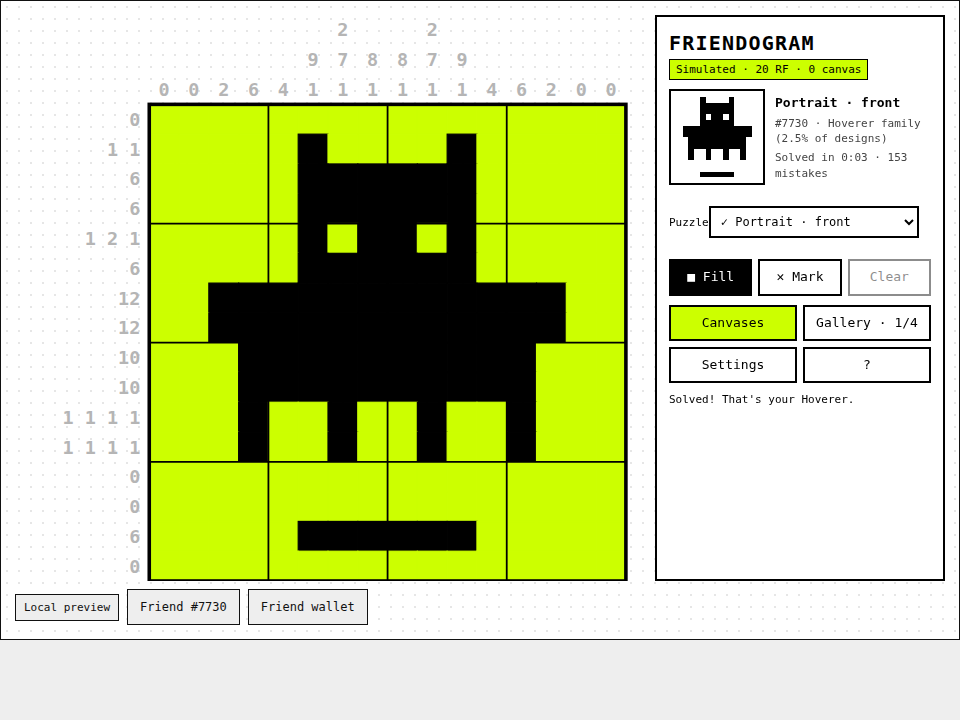
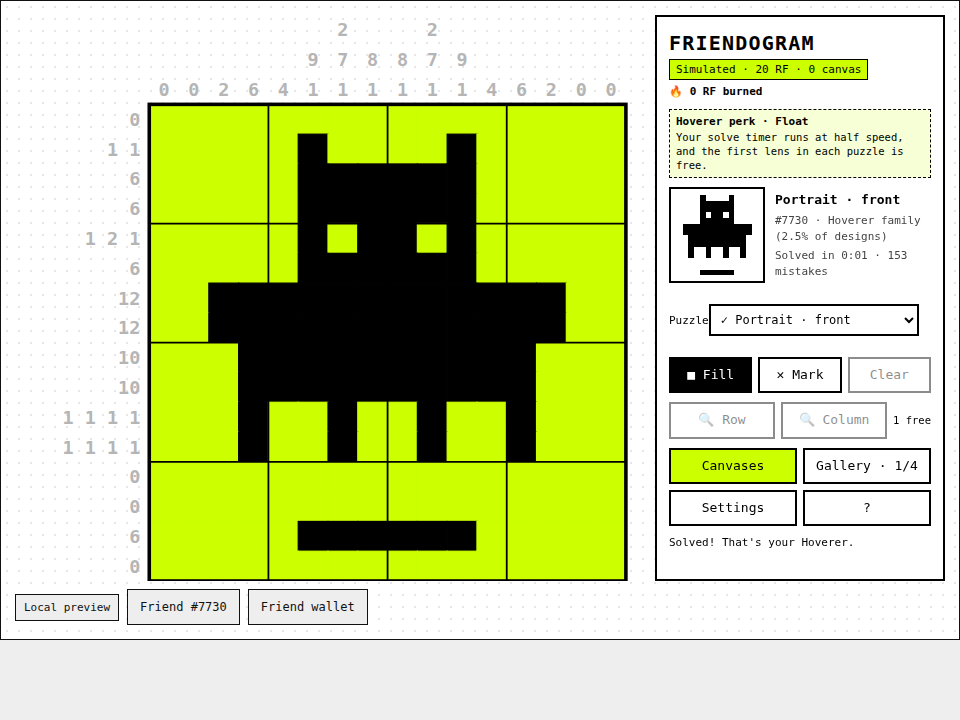
Add perks, lenses, Friend of the Day

Changed region(s): [[0.6875, 0.1222, 0.9688, 0.7639]]

diff --git a/game/index.tsx b/game/index.tsx
@@ -4,19 +4,21 @@ import { useCallback, useEffect, useMemo, useRef, useState, type KeyboardEvent, 
 import type { GameComponentProps } from "@rarefriends/friendsdk/runtime";
 import { GameMenu } from "@rarefriends/friendsdk/frame";
 import { formatGameAmount } from "@rarefriends/friendsdk/ui";
-import { expectedReward, maximumPrize, type GameSnapshot } from "@rarefriends/friendsdk/game";
+import { expectedReward, maximumPrize, RF as RF_UNIT, type GameSnapshot } from "@rarefriends/friendsdk/game";
 import { createFriendReader, spriteFrame, type GenerationSprites, type SpriteFacing } from "@rarefriends/friendsdk/sprites";
 import { createFriendSoundKit, type FriendSoundKit, type FriendSoundCue } from "@rarefriends/friendsdk/sounds";
 import { SIZE, clues, emptyGrid, isSolved, lineSatisfied, pictureRows, type Cell, type Picture } from "./nonogram";
 import { RELICS } from "./relics";
+import { perkFor, PERKS, type Perk } from "./perks";
+import { dailyFor } from "./daily";
 import "@rarefriends/friendsdk/frame.css";
 import "./style.css";
 
 type Puzzle = Readonly<{
-  id: string; kind: "portrait" | "canvas"; title: string; picture: Picture;
+  id: string; kind: "portrait" | "canvas" | "daily"; title: string; picture: Picture; tokenId?: bigint; family?: string;
   facing?: SpriteFacing; walking?: boolean; playId?: bigint; outcomeId?: number;
 }>;
-type Progress = { grid: Cell[]; mistakes: number; seconds: number; solved: boolean; revealed: boolean };
+type Progress = { grid: Cell[]; mistakes: number; seconds: number; solved: boolean; revealed: boolean; lenses: number; freeLeft: number; forgiven: number };
 type Menu = "help" | "shop" | "gallery" | "settings" | "reward" | null;
 type Tool = "fill" | "mark";
 
@@ -33,6 +35,24 @@ const FAMILY_SHARE: Record<string, string> = {
   Skeleton: "18%", Mask: "18%", Family: "18%", Cellular: "18%", Asymmetry: "18%",
   Hoverer: "2.5%", Colossus: "2.5%", Sparkling: "2.5%", Hollow: "2.5%",
 };
+const LENS_PRICE = RF_UNIT / 10n; // 0.1 RF per lens, 100% burned (simulated)
+const DAILY = dailyFor();
+
+/** A fresh board with the family perk's head start applied. */
+function newProgress(picture: Picture, perk: Perk): Progress {
+  const solution = pictureRows(picture), grid = emptyGrid();
+  const put = (x: number, y: number) => { grid[y * SIZE + x] = solution[y][x] ? 1 : 2; };
+  for (const reveal of perk.reveal) {
+    if (reveal === "row0") for (let x = 0; x < SIZE; x++) put(x, 0);
+    if (reveal === "col0") for (let y = 0; y < SIZE; y++) put(0, y);
+    if (reveal === "empty-lines") for (let i = 0; i < SIZE; i++) {
+      if (!solution[i].some(Boolean)) for (let x = 0; x < SIZE; x++) put(x, i);
+      if (!solution.some(row => row[i])) for (let y = 0; y < SIZE; y++) put(i, y);
+    }
+  }
+  return { grid, mistakes: 0, seconds: 0, solved: false, revealed: false, lenses: 0, freeLeft: perk.freeLenses, forgiven: 0 };
+}
+
 const revealCue = (outcomeId: number): FriendSoundCue => outcomeId >= 5 ? "reveal-legendary" : outcomeId >= 4 ? "reveal-rare" : "reveal-common";
 
 function portraitPuzzles(sprites: GenerationSprites): Puzzle[] {
@@ -60,6 +80,10 @@ export default function Friendogram({ friendId, client, paused }: GameComponentP
   const [menu, setMenu] = useState<Menu>("help"), [rewardId, setRewardId] = useState("");
   const [busy, setBusy] = useState(false), [error, setError] = useState(""), [message, setMessage] = useState("");
   const [muted, setMuted] = useState(true), [reducedMotion, setReducedMotion] = useState(false);
+  const [burned, setBurned] = useState(0n), [bank, setBank] = useState(0);
+  const perk = perkFor(sprites?.familyName ?? "");
+  const perkRef = useRef(perk); perkRef.current = perk;
+  const slowTick = useRef(false);
   const sound = useRef<FriendSoundKit | null>(null), locked = useRef(false), epoch = useRef(0);
   const drag = useRef<{ value: Cell; pointer: number } | null>(null);
   const preview = useRef<HTMLCanvasElement>(null), board = useRef<SVGSVGElement>(null);
@@ -69,13 +93,17 @@ export default function Friendogram({ friendId, client, paused }: GameComponentP
     const version = ++epoch.current;
     sound.current = createFriendSoundKit({ muted: true });
     setSprites(null); setSnapshot(null); setLoadError(""); setPuzzles([]); setProgress({}); setActiveId("");
-    setMenu("help"); setBusy(false); setError(""); setMessage(""); setMuted(true); locked.current = false;
+    setMenu("help"); setBusy(false); setError(""); setMessage(""); setMuted(true); setBurned(0n); setBank(0); locked.current = false;
     void Promise.all([createFriendReader().read(friendId), client.read()]).then(([art, value]) => {
       if (version !== epoch.current) return;
       if (value.friendId !== friendId) throw new Error("This game session does not match the selected Friend.");
       const list = portraitPuzzles(art);
-      setSprites(art); setSnapshot(value); setPuzzles(list); setActiveId(list[0]?.id ?? "");
-      setProgress(Object.fromEntries(list.map(p => [p.id, { grid: emptyGrid(), mistakes: 0, seconds: 0, solved: false, revealed: false }])));
+      setSprites(art); setSnapshot(value); setActiveId(list[0]?.id ?? "");
+      const familyPerk = perkFor(art.familyName);
+      // Friend of the Day: embedded canonical artwork, identical for every player today.
+      const daily: Puzzle = { id: "daily", kind: "daily", title: `Friend of the Day #${DAILY.number}`, picture: DAILY.picture, tokenId: DAILY.tokenId, family: DAILY.family };
+      setPuzzles([...list, daily]);
+      setProgress(Object.fromEntries([...list, daily].map(p => [p.id, newProgress(p.picture, familyPerk)])));
     }).catch(cause => { if (version === epoch.current) setLoadError(cause instanceof Error ? cause.message : "Could not load your Friend."); });
     return () => { epoch.current++; sound.current?.dispose(); sound.current = null; };
   }, [client, friendId, revision]);
@@ -97,6 +125,7 @@ export default function Friendogram({ friendId, client, paused }: GameComponentP
     const timer = window.setInterval(() => {
       if (document.hidden || paused) return;
       if (menu !== null || !active) return;
+      if (perkRef.current.slowTimer) { slowTick.current = !slowTick.current; if (slowTick.current) return; }
       setProgress(all => {
         const current = all[active.id];
         return current && !current.solved ? { ...all, [active.id]: { ...current, seconds: current.seconds + 1 } } : all;
@@ -112,10 +141,12 @@ export default function Friendogram({ friendId, client, paused }: GameComponentP
   }, [reducedMotion, paused]);
 
   const solve = useCallback((puzzle: Puzzle, revealed: boolean) => {
+    if (!revealed && perkRef.current.bankOnSolve) setBank(b => b + perkRef.current.bankOnSolve);
     setProgress(all => ({ ...all, [puzzle.id]: { ...all[puzzle.id], solved: true, revealed, grid: pictureRows(puzzle.picture).flat().map(on => (on ? 1 : 2) as Cell) } }));
     if (puzzle.kind === "canvas" && puzzle.outcomeId) {
       sound.current?.play(revealCue(puzzle.outcomeId)); setMessage(""); setError(""); setRewardId(puzzle.id); setMenu("reward");
-    } else { sound.current?.play("reveal-rare"); setMessage(`Solved! That's ${sprites ? `your ${sprites.familyName}` : "your Friend"}.`); }
+    } else if (puzzle.kind === "daily") { sound.current?.play("reveal-legendary"); setMessage(`Friend of the Day solved! #${puzzle.tokenId} is a ${puzzle.family}. Result card in Gallery.`); }
+    else { sound.current?.play("reveal-rare"); setMessage(`Solved! That's ${sprites ? `your ${sprites.familyName}` : "your Friend"}.`); }
   }, [sprites]);
 
   const progressRef = useRef(progress); progressRef.current = progress;
@@ -127,13 +158,39 @@ export default function Friendogram({ friendId, client, paused }: GameComponentP
     let next: Cell = value, mistake = false;
     if (assist && value === 1 && !solution[index]) { next = 2; mistake = true; }
     const grid = state.grid.slice(); grid[index] = next;
-    const updated = { ...state, grid, mistakes: state.mistakes + (mistake ? 1 : 0) };
+    const forgiven = mistake && state.forgiven < perkRef.current.forgive;
+    const updated = { ...state, grid, mistakes: state.mistakes + (mistake && !forgiven ? 1 : 0), forgiven: state.forgiven + (forgiven ? 1 : 0) };
     progressRef.current = { ...progressRef.current, [active.id]: updated };
     setProgress(all => ({ ...all, [active.id]: { ...updated, seconds: all[active.id]?.seconds ?? updated.seconds } }));
     if (mistake) { setFlash(index); window.setTimeout(() => setFlash(f => (f === index ? -1 : f)), 450); sound.current?.play("impact"); }
     else if (value === 1) sound.current?.play("select");
     if (!mistake && isSolved(grid, active.picture)) solve(active, false);
   }, [active, blocked, assist, solution, solve]);
+
+  /** Lens: reveal the cursor's row or column. Free lenses are used first, then banked ones, then RF (burned). */
+  const lensCost = (LENS_PRICE * BigInt(perk.lensCostPct)) / 100n;
+  const applyLens = (axis: "row" | "col") => {
+    const state = active ? progressRef.current[active.id] : undefined;
+    if (!active || !state || state.solved || paused || busy || !snapshot) return;
+    const x = cursor % SIZE, y = Math.floor(cursor / SIZE), rows = pictureRows(active.picture);
+    const cells: [number, number][] = Array.from({ length: SIZE }, (_, i) => (axis === "row" ? [i, y] : [x, i]));
+    if (cells.every(([cx, cy]) => state.grid[cy * SIZE + cx] === (rows[cy][cx] ? 1 : 2))) { setMessage(`That ${axis === "row" ? "row" : "column"} is already solved. Move the cursor to another line.`); return; }
+    let paid: "free" | "bank" | "rf" = "free";
+    if (state.freeLeft > 0) paid = "free";
+    else if (bank > 0) paid = "bank";
+    else if (snapshot.rfBalance - burned >= lensCost) paid = "rf";
+    else { setError("Not enough RF for a lens."); return; }
+    const grid = state.grid.slice();
+    for (const [cx, cy] of cells) grid[cy * SIZE + cx] = rows[cy][cx] ? 1 : 2;
+    const updated = { ...state, grid, lenses: state.lenses + 1, freeLeft: state.freeLeft - (paid === "free" ? 1 : 0) };
+    progressRef.current = { ...progressRef.current, [active.id]: updated };
+    setProgress(all => ({ ...all, [active.id]: { ...updated, seconds: all[active.id]?.seconds ?? updated.seconds } }));
+    if (paid === "bank") setBank(b => b - 1);
+    if (paid === "rf") setBurned(b => b + lensCost);
+    setError(""); setMessage(paid === "rf" ? `Lens used: ${rf(lensCost)} burned (simulated).` : paid === "bank" ? "Lens used from your Kinship bank." : `Free ${perk.name} lens used.`);
+    sound.current?.play("action-ready");
+    if (isSolved(grid, active.picture)) solve(active, false);
+  };
 
   // Pointer painting: the first cell decides fill/erase or mark/unmark for the whole drag.
   const cellAt = (event: PointerEvent<SVGSVGElement>) => {
@@ -177,6 +234,8 @@ export default function Friendogram({ friendId, client, paused }: GameComponentP
     else if (key === "f" || key === "z") { event.preventDefault(); setCell(cursor, current === 1 ? 0 : 1); }
     else if (key === "x") { event.preventDefault(); setCell(cursor, current === 2 ? 0 : 2); }
     else if (key === "t") { event.preventDefault(); setTool(t => (t === "fill" ? "mark" : "fill")); }
+    else if (key === "l") { event.preventDefault(); applyLens("row"); }
+    else if (key === "k") { event.preventDefault(); applyLens("col"); }
   };
 
   // Friend preview: live sprite animation once a portrait is solved, otherwise the player's progress.
@@ -204,7 +263,7 @@ export default function Friendogram({ friendId, client, paused }: GameComponentP
     const id = `canvas-${playId}`;
     const puzzle: Puzzle = { id, kind: "canvas", title: `Mystery Canvas #${playId}`, picture: RELICS[outcomeId - 1].picture, playId, outcomeId };
     setPuzzles(list => (list.some(p => p.id === id) ? list : [...list, puzzle]));
-    setProgress(all => (all[id] ? all : { ...all, [id]: { grid: emptyGrid(), mistakes: 0, seconds: 0, solved: false, revealed: false } }));
+    setProgress(all => (all[id] ? all : { ...all, [id]: newProgress(puzzle.picture, perkRef.current) }));
     setActiveId(id); setMenu(null);
   };
   const paintCanvas = () => act(async () => {
@@ -223,7 +282,8 @@ export default function Friendogram({ friendId, client, paused }: GameComponentP
   if (!snapshot || !sprites || !active || !state || !clue) return <div className="fg-loading" role="status"><div className="fg-spinner" aria-hidden="true" />Reading your Friend's pixels from the chain…</div>;
 
   const price = definition.price, maxPrize = maximumPrize(definition);
-  const canBuy = snapshot.rfBalance >= price && snapshot.freeStake >= maxPrize && snapshot.freeStake + price >= maxPrize;
+  const spendable = snapshot.rfBalance - burned;
+  const canBuy = spendable >= price && snapshot.freeStake >= maxPrize && snapshot.freeStake + price >= maxPrize;
   const pending = snapshot.plays.find(play => play.outcomeId === null);
   const modeLabel = snapshot.mode === "preview" ? "Simulated" : "Live";
   const portraits = puzzles.filter(p => p.kind === "portrait");
@@ -260,24 +320,31 @@ export default function Friendogram({ friendId, client, paused }: GameComponentP
         </svg>
       </div>
       <aside className="fg-side">
-        <header><h1>Friendogram</h1><p className="fg-balance">{modeLabel} · {rf(snapshot.rfBalance)} · {snapshot.consumables.toString()} canvas</p></header>
+        <header><h1>Friendogram</h1><p className="fg-balance">{modeLabel} · {rf(spendable)} · {snapshot.consumables.toString()} canvas</p>
+          <p className="fg-burn" aria-label={`${rf(burned)} burned on lenses`}>🔥 {rf(burned)} burned</p></header>
+        <p className="fg-perk" title={perk.text}><strong>{perk.family} perk · {perk.name}</strong> {perk.text}</p>
         <div className="fg-card">
           <canvas ref={preview} width={96} height={96} aria-label={state.solved ? `${active.title} solved` : "Your progress"} />
           <div>
             <strong>{hiddenName ? `${active.title} · sealed` : active.title}</strong>
-            <small>{active.kind === "portrait" ? `#${friendId} · ${sprites.familyName} family (${FAMILY_SHARE[sprites.familyName]} of designs)` : state.solved && active.outcomeId ? `${definition.outcomes[active.outcomeId - 1].name} · ${RELICS[active.outcomeId - 1].rarity}` : "Prize fixed at opening. Solve to reveal it."}</small>
+            <small>{active.kind === "daily" ? `${DAILY.key} · #${active.tokenId} · ${state.solved ? `${active.family} family` : "who is it?"}` : active.kind === "portrait" ? `#${friendId} · ${sprites.familyName} family (${FAMILY_SHARE[sprites.familyName]} of designs)` : state.solved && active.outcomeId ? `${definition.outcomes[active.outcomeId - 1].name} · ${RELICS[active.outcomeId - 1].rarity}` : "Prize fixed at opening. Solve to reveal it."}</small>
             <small>{state.solved ? (state.revealed ? "Revealed" : `Solved in ${clock(state.seconds)} · ${state.mistakes} mistake${state.mistakes === 1 ? "" : "s"}`) : `${clock(state.seconds)} · ${state.mistakes} mistake${state.mistakes === 1 ? "" : "s"}`}</small>
           </div>
         </div>
         <label className="fg-select">Puzzle
           <select value={active.id} onChange={event => { setActiveId(event.target.value); setCursor(0); setMessage(""); }}>
-            {puzzles.map(p => <option key={p.id} value={p.id}>{progress[p.id]?.solved ? "✓ " : ""}{p.kind === "canvas" && !progress[p.id]?.solved ? `${p.title} · sealed` : p.title}</option>)}
+            {puzzles.map(p => <option key={p.id} value={p.id}>{progress[p.id]?.solved ? "✓ " : ""}{p.kind === "canvas" && !progress[p.id]?.solved ? `${p.title} · sealed` : p.kind === "daily" ? `☀ ${p.title}` : p.title}</option>)}
           </select>
         </label>
         <div className="fg-tools" role="group" aria-label="Tool">
           <button type="button" aria-pressed={tool === "fill"} onClick={() => setTool("fill")}>■ Fill</button>
           <button type="button" aria-pressed={tool === "mark"} onClick={() => setTool("mark")}>✕ Mark</button>
           <button type="button" disabled={state.solved} onClick={() => setProgress(all => ({ ...all, [active.id]: { ...state, grid: emptyGrid() } }))}>Clear</button>
+        </div>
+        <div className="fg-tools" role="group" aria-label="Lenses">
+          <button type="button" disabled={state.solved} onClick={() => applyLens("row")} title="Reveal the cursor's row (L)">🔍 Row</button>
+          <button type="button" disabled={state.solved} onClick={() => applyLens("col")} title="Reveal the cursor's column (K)">🔍 Column</button>
+          <span className="fg-lens-note">{state.freeLeft > 0 ? `${state.freeLeft} free` : bank > 0 ? `${bank} banked` : rf(lensCost)}</span>
         </div>
         {active.kind === "canvas" && !state.solved && <button type="button" className="fg-wide" onClick={() => solve(active, true)}>Reveal now (skip puzzle)</button>}
         <div className="fg-actions">
@@ -297,18 +364,21 @@ export default function Friendogram({ friendId, client, paused }: GameComponentP
         <p>Every puzzle here is drawn from <strong>#{friendId.toString()}</strong>'s own 16 × 16 on-chain sprite. Solve it and your Friend walks off the board.</p>
         <p>Numbers are runs of filled squares in that row or column, in order, with at least one gap between runs. Fill squares, mark ones you know are empty, and grey clues mean a line is done.</p>
         <p><strong>Controls:</strong> tap or drag to paint · right-click or ✕ Mark to mark · keyboard: arrows/WASD move, Space fills with the current tool, F fills, X marks, T switches tool.</p>
+        <p><strong>Your family perk:</strong> #{friendId.toString()} is a {perk.family} ({perk.share} of designs), so you get <strong>{perk.name}</strong>: {perk.text} Rarer families get stronger perks.</p>
+        <p><strong>Lenses</strong> reveal the row or column under the cursor (buttons, or L / K). Free and banked lenses are used first. After that each lens costs {rf(lensCost)}, and <strong>100% of it is burned</strong> (simulated).</p>
+        <p><strong>☀ Friend of the Day #{DAILY.number}:</strong> every player gets the same Rare Friend today. Solve it to find out who it is.</p>
         <p><strong>Mystery Canvas</strong> ({rf(price)}, simulated): its relic is fixed when you open it. Solve the picture to reveal it, then keep it or sell it back for its fixed RF value.</p>
       </> : menu === "shop" ? <>
         <div className="fg-row">
           <button type="button" disabled={!canBuy || busy || paused} onClick={() => void act(() => client.buy(1n), "purchase")}>Buy 1 · {rf(price)}</button>
-          <button type="button" disabled={!canBuy || busy || paused || snapshot.rfBalance < price * 3n} onClick={() => void act(() => client.buy(3n), "purchase")}>Buy 3 · {rf(price * 3n)}</button>
+          <button type="button" disabled={!canBuy || busy || paused || spendable < price * 3n} onClick={() => void act(() => client.buy(3n), "purchase")}>Buy 3 · {rf(price * 3n)}</button>
           <button type="button" className="rf-frame-primary" disabled={busy || paused || (!pending && snapshot.consumables === 0n)} onClick={() => void paintCanvas()}>{pending ? "Resume canvas" : `Open a canvas (${snapshot.consumables.toString()})`}</button>
         </div>
         <p>One canvas costs <strong>{rf(price)}</strong> and holds one relic. The prize is fixed when you open it; solving only reveals it. {snapshot.mode === "preview" && "All RF here is simulated."}</p>
         <table><thead><tr><th>Relic</th><th>Chance</th><th>Value</th></tr></thead>
           <tbody>{definition.outcomes.map((o, i) => <tr key={o.name}><td>{o.name} <small>{RELICS[i].rarity}</small></td><td>{o.chanceBps / 100}%</td><td>{rf(o.reward)}</td></tr>)}</tbody></table>
         <p className="fg-note">Expected value {rf(expectedReward(definition))} per canvas · max {rf(maxPrize)}. In live play, half of each payment is burned and half funds Friend rewards, as with other Rare Friends gameplay.</p>
-        {!canBuy && <p>{snapshot.rfBalance < price ? "Not enough RF." : "New canvases are paused until there's enough free backing."}</p>}
+        {!canBuy && <p>{spendable < price ? "Not enough RF." : "New canvases are paused until there's enough free backing."}</p>}
         {feedback && <p role={error ? "alert" : "status"}>{feedback}</p>}
       </> : menu === "reward" && reward && rewardOutcome && reward.outcomeId ? <div className="fg-reward">
         <canvas width={96} height={96} ref={node => {
@@ -328,9 +398,18 @@ export default function Friendogram({ friendId, client, paused }: GameComponentP
       </div> : menu === "gallery" ? <>
         <h3>#{friendId.toString()} · {sprites.familyName}</h3>
         <ul className="fg-list">{portraits.map(p => { const s = progress[p.id]; return <li key={p.id}><span>{s?.solved ? "✓" : "·"} {p.title}</span><small>{s?.solved ? `${clock(s.seconds)} · ${s.mistakes} mistakes` : "unsolved"}</small></li>; })}</ul>
+        {(() => { const d = puzzles.find(p => p.kind === "daily"), s = d && progress[d.id]; return <>
+          <h3>☀ Friend of the Day #{DAILY.number} · {DAILY.key}</h3>
+          {d && s?.solved ? <pre className="fg-share">{`Friendogram ☀ #${DAILY.number}\nFriend #${d.tokenId} (${d.family})\n${s.revealed ? "revealed" : `solved in ${clock(s.seconds)}`} · ${s.mistakes} mistakes · ${s.lenses} lenses`}</pre>
+            : <p>Not solved yet. Pick ☀ Friend of the Day in the puzzle list.</p>}
+        </>; })()}
+        <h3>Burn · {rf(burned)}</h3>
+        <p className="fg-note">{Object.values(progress).reduce((n, s) => n + s.lenses, 0)} lenses used this session{bank ? ` · ${bank} banked` : ""}. Lens burns are simulated and tracked by the game.</p>
         <h3>Relics · {heldCount.toString()} held</h3>
         <ul className="fg-list">{definition.outcomes.map((o, i) => <li key={o.name}><span><strong>{o.name}</strong> <small>{snapshot.inventory[i].toString()} held · {rf(o.reward)}</small></span>
           <button type="button" disabled={busy || paused || snapshot.inventory[i] === 0n || o.reward === 0n} onClick={() => void act(() => client.redeem(i + 1, 1n), "reward")}>Sell one</button></li>)}</ul>
+        <h3>Family perks</h3>
+        <ul className="fg-list">{Object.values(PERKS).map(p => <li key={p.family} className={p.family === perk.family ? "fg-mine" : undefined}><span><strong>{p.family}</strong> <small>{p.share}</small></span><small>{p.name}: {p.text}</small></li>)}</ul>
         {feedback && <p role={error ? "alert" : "status"}>{feedback}</p>}
       </> : menu === "settings" ? <>
         <button type="button" aria-pressed={!muted} onClick={() => { const next = !muted; setMuted(next); sound.current?.setMuted(next); if (!next) void sound.current?.unlock(); }}>{muted ? "Sound off" : "Sound on"}</button>

diff --git a/game/daily.ts b/game/daily.ts
@@ -1,0 +1,37 @@
+import { decodeSpriteBitmap } from "@rarefriends/friendsdk/sprites";
+import type { Picture } from "./nonogram";
+
+/**
+ * Friend of the Day: 18 hand-picked hardwired Generations Friends (two per family). Their canonical
+ * front-facing idle frame (Colossus: side frame) was read once from the on-chain families registry
+ * (frames(family, seed), 2026-09-27) and is embedded here, so the game never reads other token IDs
+ * at runtime and never scans the collection. Everyone gets the same Friend on the same UTC day.
+ */
+export const DAILY_FRIENDS: readonly { tokenId: bigint; family: string; bitmap: bigint }[] = [
+  { tokenId: 334803n, family: "Skeleton", bitmap: 0x0000066006600ff00ff003c003c00ff019981ff807e006600420000000000000n },
+  { tokenId: 334809n, family: "Mask", bitmap: 0x000006600660066007e00e700ff00ff00ff007e0018007e00e700db007e00000n },
+  { tokenId: 334830n, family: "Family", bitmap: 0x00000e700e7007e00ff00ff007e006600ff00ff01db807e00660066006600000n },
+  { tokenId: 334821n, family: "Cellular", bitmap: 0x00000660066007e00ff00ff007e00180018007e005a005a007e005a004200000n },
+  { tokenId: 334812n, family: "Asymmetry", bitmap: 0x00001818181818181ff81ff81c381c381ff80ff80db00db007e0000000000000n },
+  { tokenId: 334890n, family: "Hoverer", bitmap: 0x00000ff0000000000240024007e007e003c003c01ff817e81ff8181810080000n },
+  { tokenId: 334294n, family: "Colossus", bitmap: 0x00000f0f07070707070707ff07ff07ff07fe07fc06affc013c003c0024003c00n },
+  { tokenId: 334845n, family: "Sparkling", bitmap: 0x00000c300c300c303ffc1ff81ff81ff803c0066025a477ea23c406600c300000n },
+  { tokenId: 334800n, family: "Hollow", bitmap: 0x00000c300c301c3817e810081ff801800ff008100a5008100ff006600c300000n },
+  { tokenId: 334878n, family: "Skeleton", bitmap: 0x0000024002400240024003c003c003c003c003c003c003c01ff817e83ffc0000n },
+  { tokenId: 334899n, family: "Mask", bitmap: 0x00000e70066007e007e007e00ff00ff00ff007e01ff81db81db80ff00c300000n },
+  { tokenId: 334881n, family: "Family", bitmap: 0x0000066006600ff00ff00ff007e007e00ff019980ff007e00420042004200000n },
+  { tokenId: 334884n, family: "Cellular", bitmap: 0x00000660024002400ff01ff81ff803c007e00db00ff00ff00810081000000000n },
+  { tokenId: 334896n, family: "Asymmetry", bitmap: 0x00000660066007e007b007f807e8018803c00ff0099009900ff00c300c300000n },
+  { tokenId: 334182n, family: "Hoverer", bitmap: 0x00000ff000000000124812481ff81ff81ff80ff009900ff007e0024002400000n },
+  { tokenId: 335106n, family: "Colossus", bitmap: 0x00001eae0cac0cac0fff0fff0fff0ffe0ffc0c060c03f8013800f800c800f800n },
+  { tokenId: 334483n, family: "Sparkling", bitmap: 0x00001a580a500a520ff507e20ff027e453ce218407e00ff00ff00db007e00000n },
+  { tokenId: 334887n, family: "Hollow", bitmap: 0x00000240024006600ff00c3007e0018007e00c3008100a500a5008100ff00000n },
+];
+
+export function dailyFor(now: Date = new Date()) {
+  const key = now.toISOString().slice(0, 10);
+  const day = Math.floor(Date.UTC(now.getUTCFullYear(), now.getUTCMonth(), now.getUTCDate()) / 86_400_000);
+  const pick = DAILY_FRIENDS[((day % DAILY_FRIENDS.length) + DAILY_FRIENDS.length) % DAILY_FRIENDS.length];
+  const picture: Picture = decodeSpriteBitmap(pick.bitmap).rows;
+  return { key, number: day - 20_722, tokenId: pick.tokenId, family: pick.family, picture };
+}

diff --git a/game/perks.ts b/game/perks.ts
@@ -1,0 +1,26 @@
+/** Family perks: the selected Friend's real on-chain family changes how every puzzle plays. Rarer families get stronger perks. */
+export type Perk = Readonly<{
+  family: string; name: string; text: string; share: string;
+  freeLenses: number;      // free lenses at the start of every puzzle
+  lensCostPct: number;     // % of the normal lens price
+  forgive: number;         // wrong fills per puzzle that don't count as mistakes (Infinity = all)
+  reveal: readonly ("row0" | "col0" | "empty-lines")[]; // lines solved before you start
+  bankOnSolve: number;     // lenses banked for later puzzles each time you solve one
+  slowTimer: boolean;      // solve timer runs at half speed
+}>;
+
+const base = { freeLenses: 0, lensCostPct: 100, forgive: 0, reveal: [], bankOnSolve: 0, slowTimer: false } as const;
+
+export const PERKS: Readonly<Record<string, Perk>> = {
+  Skeleton: { ...base, family: "Skeleton", share: "18%", name: "Bare Bones", text: "Your first 3 wrong fills in each puzzle don't count as mistakes.", forgive: 3 },
+  Mask: { ...base, family: "Mask", share: "18%", name: "Second Face", text: "The first lens in each puzzle is free.", freeLenses: 1 },
+  Family: { ...base, family: "Family", share: "18%", name: "Kinship", text: "Every solved puzzle banks 1 free lens for later.", bankOnSolve: 1 },
+  Cellular: { ...base, family: "Cellular", share: "18%", name: "Mitosis", text: "Lenses cost half.", lensCostPct: 50 },
+  Asymmetry: { ...base, family: "Asymmetry", share: "18%", name: "Tilt", text: "The first column of every puzzle starts solved.", reveal: ["col0"] },
+  Hoverer: { ...base, family: "Hoverer", share: "2.5%", name: "Float", text: "Your solve timer runs at half speed, and the first lens in each puzzle is free.", slowTimer: true, freeLenses: 1 },
+  Colossus: { ...base, family: "Colossus", share: "2.5%", name: "Titan", text: "The first row and first column of every puzzle start solved.", reveal: ["row0", "col0"] },
+  Sparkling: { ...base, family: "Sparkling", share: "2.5%", name: "Shine", text: "3 free lenses in every puzzle.", freeLenses: 3 },
+  Hollow: { ...base, family: "Hollow", share: "2.5%", name: "Void Sight", text: "Empty rows and columns start marked, and wrong fills never count as mistakes.", reveal: ["empty-lines"], forgive: Infinity },
+};
+
+export const perkFor = (family: string): Perk => PERKS[family] ?? PERKS.Skeleton;

diff --git a/game/style.css b/game/style.css
@@ -78,3 +78,11 @@
   .fg-card{gap:6px}.fg-card canvas{width:32px;height:32px}.fg-card strong{font-size:11px}
   .fg-status:empty{display:none}
 }
+.fg-burn{margin:2px 0 0;font-size:11px;font-weight:bold}
+.fg-perk{margin:0;font-size:10.5px;line-height:1.35;padding:5px 6px;border:1px dashed #000;background:#f6ffd6}
+.fg-perk strong{display:block;font-size:11px}
+.fg-lens-note{align-self:center;font-size:10.5px;white-space:nowrap}
+.fg-share{background:#000;color:#ccff00;padding:10px;font:12px/1.5 ui-monospace,monospace;white-space:pre-wrap;margin:6px 0 12px}
+.fg-list li.fg-mine{background:#f6ffd6}
+.fg-list li small{text-align:right}
+@media (max-aspect-ratio: 1/1){.fg-perk{font-size:9.5px;padding:3px 5px}.fg-perk strong{display:inline}.fg-burn{display:none}}

diff --git a/game/README.md b/game/README.md
@@ -20,6 +20,10 @@ npm install -D playwright && npx playwright install chromium   # once
 npm run check:friendogram
 ```
 
+Browser checks: `browser.test.mjs` (desktop/phone smoke + solve), `deep.test.mjs`
+(controls, pause, all six relic tiers, selling, limits), `features.test.mjs` (perks,
+lenses and burn, Friend of the Day).
+
 ![Solved portrait](screenshot.png)
 
 Open `http://localhost:4173`, connect a wallet on Robinhood mainnet (4663),
@@ -40,6 +44,30 @@ choose an owned hardwired Generations Friend (generation ≥ 1) and play.
 - **Mystery Canvas (simulated):** buy in *Canvases*, then open one. Its relic is fixed
   by the SDK's chance client **when opened**. Solving only reveals it, and
   *Reveal now* skips the puzzle. Keep the relic or sell it for its fixed RF value.
+- **Family perks:** your Friend's real on-chain family changes the rules, and rarer
+  families (2.5% of designs) get stronger perks:
+
+  | Family | Share | Perk |
+  | --- | --- | --- |
+  | Skeleton | 18% | Bare Bones: first 3 wrong fills per puzzle don't count |
+  | Mask | 18% | Second Face: first lens per puzzle is free |
+  | Family | 18% | Kinship: each solved puzzle banks 1 free lens |
+  | Cellular | 18% | Mitosis: lenses cost half |
+  | Asymmetry | 18% | Tilt: first column starts solved |
+  | Hoverer | 2.5% | Float: timer runs at half speed + first lens free |
+  | Colossus | 2.5% | Titan: first row and column start solved |
+  | Sparkling | 2.5% | Shine: 3 free lenses per puzzle |
+  | Hollow | 2.5% | Void Sight: empty lines pre-marked, mistakes never count |
+
+- **Lenses (RF burn):** reveal the row or column under the cursor (buttons, or L / K).
+  Free and banked lenses are used first; after that a lens costs **0.1 RF, 100% burned**
+  (0.05 RF for Cellular). The HUD shows total RF burned. Burned RF reduces the spendable
+  balance used for canvas purchases. Solving an already-solved line is refused at no cost.
+- **☀ Friend of the Day:** every player gets the same Rare Friend each UTC day, cycling
+  through 18 hand-picked hardwired Friends (two per family). It stays anonymous until
+  solved, then the Gallery shows a result card (puzzle number, Friend, time, mistakes,
+  lenses) to screenshot and share. The artwork is the Friend's canonical on-chain frame,
+  read once and embedded, so the game never reads other token IDs at runtime.
 - Settings: sound on/off (muted by default), reduce motion, Assist.
 
 ## Economy (simulated)
@@ -58,7 +86,13 @@ choose an owned hardwired Generations Friend (generation ≥ 1) and play.
 | Consumable | One canvas produces exactly one relic; no reroll |
 | Redemption | Fixed value, no expiry, to the Friend's canonical wallet |
 
-Skill never changes payouts; puzzles are presentation for an already-settled outcome.
+Skill, perks and lenses never change canvas payouts; puzzles are presentation for an
+already-settled outcome.
+
+Lens burns are tracked by the game itself: the SDK v0.1.2 bridge has no generic
+spend/burn action, so the burn total is simulated and subtracted from the spendable
+balance shown in-game. Intended live integration: a lens burns 0.1 RF from the Friend's
+canonical wallet (100% burn, no reward share).
 Intended live integration: canvas payments follow Rare Friends gameplay rules
 (50% burned, 50% to Friend rewards). All balances, relics and sales here are
 simulated. No transactions are sent.
@@ -70,4 +104,5 @@ simulated. No transactions are sent.
 - Wallet, Friend selection and the ownership gate are the SDK runtime's.
 - Progress is session-only (the SDK supplies no persistence).
 - Relic artwork is original 16 × 16 pixel art made for this game.
-- Future work: hint purchases burning RF, daily shared puzzle, leaderboard (needs persistence).
+- Future work: on-chain lens burns, a shared daily leaderboard (needs persistence),
+  a Puzzle Maker where players' drawings become canvases with creator fees.
